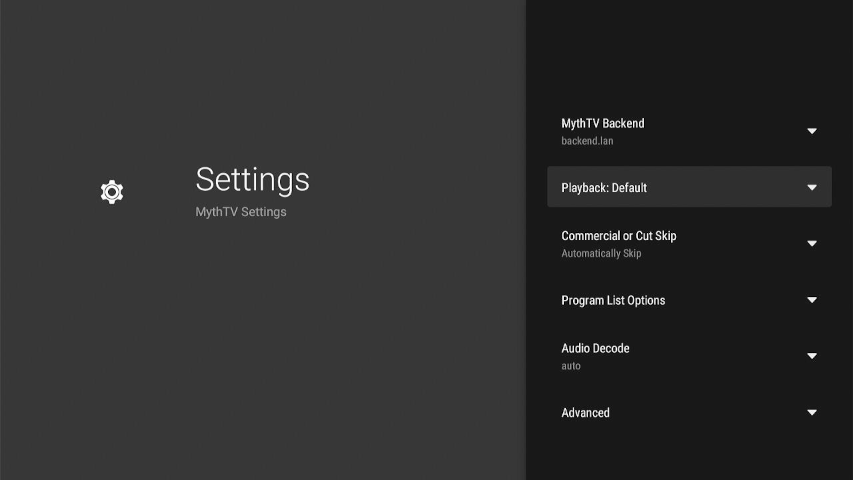
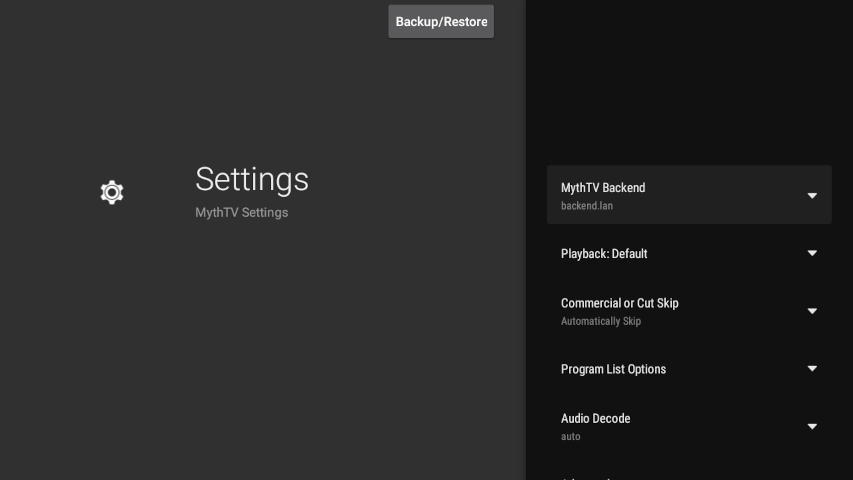
Update documentation: add backup / restore feature

diff --git a/README.md b/README.md
@@ -16,6 +16,7 @@ Leanfront can be installed from the Google play store or the Amazon store, depen
 - [Search](#search)
 - [Tools](#tools)
 - [Settings](#settings)
+  - [Backup / Restore](#backup--restore)
 - [Backend Status](#backend-status)
 - [Manage Recordings](#manage-recordings)
 - [Program Guide](#program-guide)
@@ -174,7 +175,15 @@ At the bottom of each list screen is a row named "Tools", that provides applicat
 ## Settings
 ![](ScreenShots/Settings.png)
 
-Set up the backend and many customizable options by drilling down into each of the sections shown.
+### Backup / Restore
+
+A button at the top of the page allows backup and restore of settings and the local SQLite database. These are backed up into the documents directory of your Android TV device. If you install a file explorer such as File Manager Plus or Cx File Explorer, you can use ftp to download the files on to a computer.
+
+Thi feature always backs up the settings to leanfront_settings.xml and the database to leanfront.db. If you do a second backup it overwrites the prior one. To save a prior backup, rename the backup file before taking a new backup.
+
+If you use "Recently Viewed" to keep track of what you are watching, bear in mind it keeps the list locally on Android, so each Android TV device has its own list. The database backup can be restored to a different Android TV device to transfer your recently viewed list.
+
+The settings can be restored to a different Android TV device to avoid having to set them up on the new device. These backups can also be used to restore settings and database if you uninstall leanfront and then install it again.
 
 <details><summary>Notes</summary>
 
@@ -531,7 +540,11 @@ Creating this index changed the refresh time on my system from 38 seconds to 4 s
 
 ### Copy from one Android device to another
 
-If you use "Recently Viewed" to keep track of what you are watching, bear in mind it keeps the list locally on Android, so each Android TV device has its own list. There is a script to copy from one to another.
+If you use "Recently Viewed" to keep track of what you are watching, bear in mind it keeps the list locally on Android, so each Android TV device has its own list.
+
+See [Backup / Restore](#backup--restore) for the best way to copy these files. The script described below only works on debug builds, so it will not help with leanfront installed from the app store or play store. The [Backup / Restore](#backup--restore) feature works on both debug and production builds.
+
+There is a script to copy files to and from an android device debug application.
 
 This only works on debuggable builds. The release builds of leanfront not debuggable, so it will not work on those.
 
